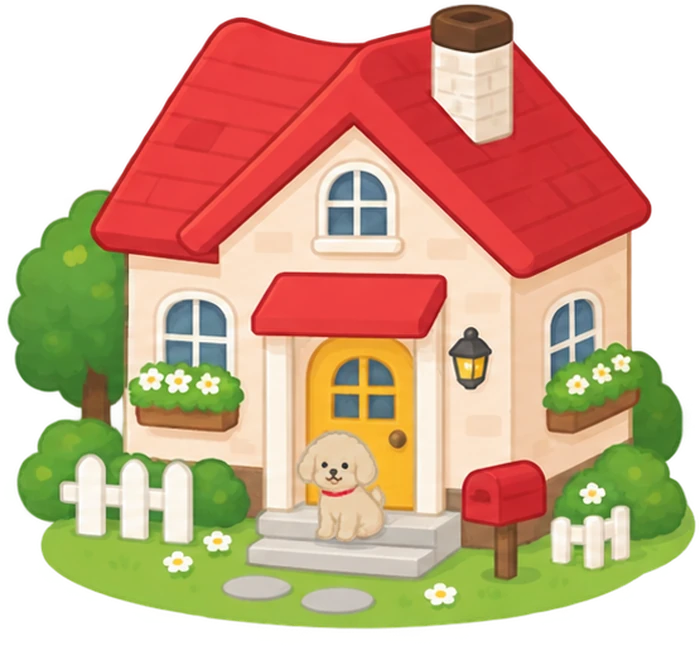
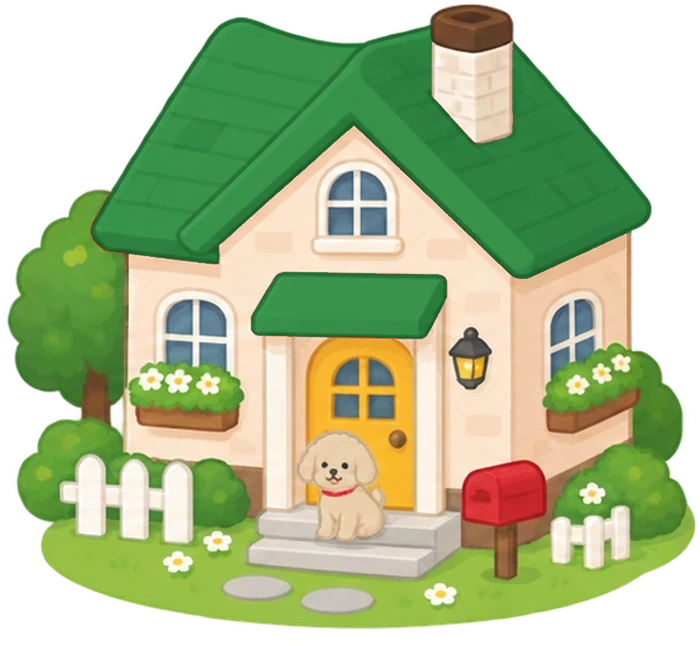
House → 우리집 미니어처 link + dark green roof; signpost → 이사 준비 대시보드

Changed region(s): [[0.12, 0.0, 0.93, 0.4334], [0.36, 0.4025, 0.66, 0.5263]]

diff --git a/js/config.js b/js/config.js
@@ -20,7 +20,8 @@ window.VILLAGE = {
 
   buildings: [
     { id: "bank",    label: "나의 자산 관리",         href: "https://claude.ai/artifact/NhwWdSEhFkMRyLG87PGkzn", x: 690, y: 752,  w: 280 },
-    { id: "house",   label: "이사 준비 대시보드",     href: "https://claude.ai/artifact/8ezKX3vRFPJjKpmcS5KNDU", x: 715, y: 1135, w: 270 },
+    { id: "sign",    label: "이사 준비 대시보드",     href: "https://claude.ai/artifact/8ezKX3vRFPJjKpmcS5KNDU", x: 781, y: 852,  w: 62 },
+    { id: "house",   label: "우리집 미니어처",        href: "https://claude.ai/code/artifact/1f9a5842-bc01-4ca4-a23a-3982c6be3059", x: 715, y: 1135, w: 270 },
     { id: "stadium", label: "문학야구장",             href: "https://my-redi-coder.github.io/munhak/",           x: 272, y: 1300, w: 350 },
     { id: "trophy",  label: "26 후반기 승리 감상평",  href: "https://my-redi-coder.github.io/baseball/",         x: 660, y: 1455, w: 165 },
     { id: "turtle",  label: "사주 · 오늘의 운세",     href: "https://claude.ai/artifact/9sdT6HysSyGjHABLCP6CAf", x: 238, y: 600,  w: 88 }
